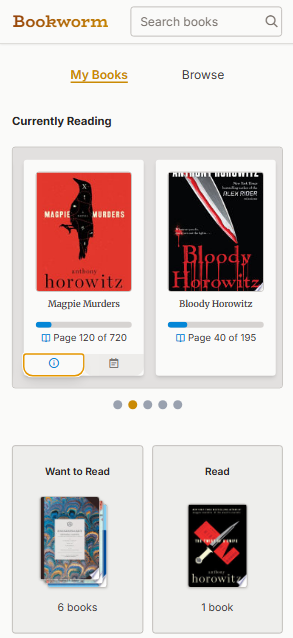
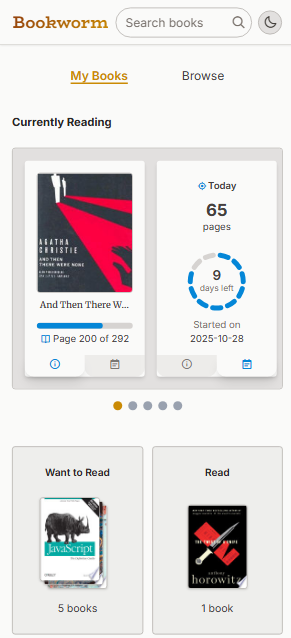
Update README.md with newer images

diff --git a/README.md b/README.md
@@ -11,7 +11,7 @@ A ReactJS Reading Tracker web application built with Tailwind CSS and Google Boo
 - Set due and check remaining days and how many pages to read today
 - Add your own ratings and notes to Read and Currently Reading books
 - Responsive design
-- Switch between Dark Mode and Light Mode automatically
+- Switch between Dark Mode and Light Mode with mode switcher
 
 ### Built with
 - ReactJS
